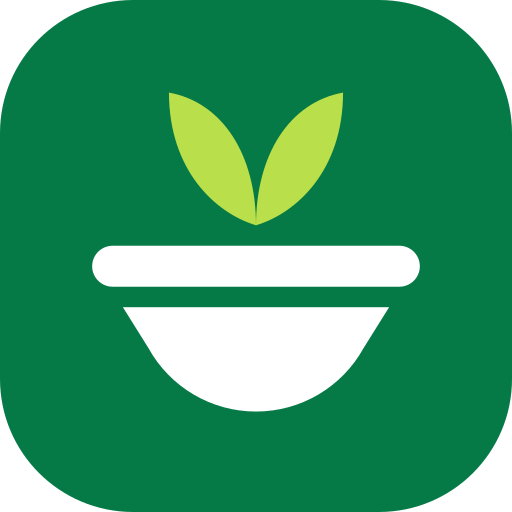
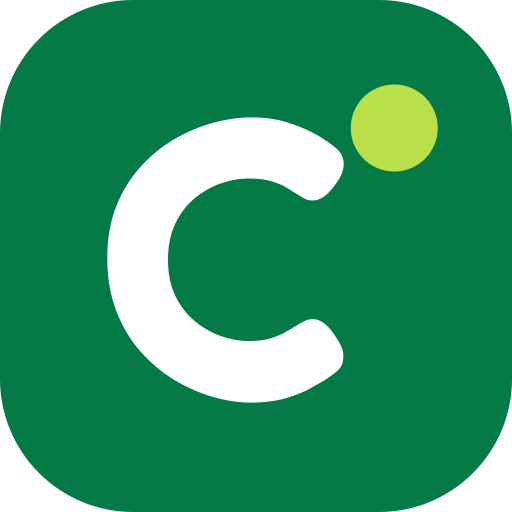
Zurück zum C mit Punkt – als Startbildschirm-Symbol
Das Zeichen bleibt wie es war. Neu sind nur die Symbole, die für den
Startbildschirm fehlten: 180 px randlos und deckend für iOS (es nimmt kein
SVG und rundet die Ecken selbst, deshalb ohne eigene Rundung und ohne
Transparenz), 192 und 512 px fürs Manifest sowie eine randlose Fassung mit
dem Motiv auf 76 % für Android, das in einen Kreis beschneidet.

Claude-Session: https://claude.ai/code/session_01CUeYFDPeowMMSQZz6nK22E

Changed region(s): [[0.1562, 0.1562, 0.875, 0.8125], [0.3125, 0.7188, 0.3438, 0.75]]

diff --git a/src/components/logo-paths.ts b/src/components/logo-paths.ts
@@ -1,8 +1,7 @@
 // Generiert von scripts/make-logo.mjs – nicht von Hand bearbeiten.
 export const MARK_VIEWBOX = '0 0 100 100'
-export const MARK_RIM = { x: 18, y: 48, w: 64, h: 8, r: 4 }
-export const MARK_BOWL = 'M24 60 H76 L71 68 A24 24 0 0 1 29 68 L24 60 Z'
-export const MARK_LEAVES = ["M50 44 C50 30.32 43.54 20.00 33.00 18.08 C33.00 33.20 42.01 41.60 50 44 Z","M50 44 C50 30.32 56.46 20.00 67.00 18.08 C67.00 33.20 57.99 41.60 50 44 Z"]
+export const MARK_C = 'M48.88 78.63Q45.44 78.63 41.62 77.53Q37.80 76.44 34.13 74.26Q30.47 72.07 27.46 68.68Q24.46 65.29 22.71 60.72Q20.95 56.16 20.95 50.31Q20.95 44.70 22.71 40.29Q24.46 35.88 27.43 32.61Q30.39 29.33 34.06 27.18Q37.72 25.04 41.62 23.99Q45.52 22.93 49.03 22.93Q53.01 22.93 55.97 23.87Q58.94 24.81 60.81 25.78Q62.68 26.76 63.15 27.15Q64.55 28.00 65.80 29.10Q67.05 30.19 67.13 31.98Q67.13 32.92 66.78 33.81Q66.43 34.71 65.72 35.73Q64.48 37.52 63.34 38.34Q62.21 39.16 61.04 39.16Q60.11 39.16 59.29 38.69Q58.47 38.22 57.22 37.44Q56.68 37.05 55.66 36.47Q54.65 35.88 52.93 35.37Q51.22 34.87 48.56 34.87Q45.83 34.87 43.06 35.84Q40.30 36.82 37.96 38.77Q35.62 40.72 34.21 43.72Q32.81 46.72 32.81 50.70Q32.81 54.84 34.25 57.80Q35.69 60.76 38.03 62.71Q40.37 64.66 43.14 65.64Q45.91 66.61 48.56 66.61Q50.90 66.61 52.58 66.15Q54.26 65.68 55.47 65.02Q56.68 64.35 57.53 63.81Q58.39 63.26 59.29 62.79Q60.19 62.32 61.12 62.32Q62.21 62.32 63.34 63.18Q64.48 64.04 65.65 65.91Q66.35 66.93 66.74 67.90Q67.13 68.88 67.05 69.81Q67.05 71.45 65.80 72.50Q64.55 73.56 63.15 74.41Q62.53 74.73 60.73 75.78Q58.94 76.83 55.97 77.73Q53.01 78.63 48.88 78.63Z'
+export const MARK_DOT = { cx: 77, cy: 25, r: 8.5 }
 export const WORD_VIEWBOX = '0 0 339 100'
 export const WORD_LETTERS: { d: string; rot: number; cx: number; cy: number }[] = [{"d":"M38.40 81.61Q34.00 81.61 29.10 80.21Q24.20 78.81 19.50 76.01Q14.80 73.21 10.95 68.86Q7.10 64.51 4.85 58.66Q2.60 52.81 2.60 45.31Q2.60 38.11 4.85 32.46Q7.10 26.81 10.90 22.61Q14.70 18.41 19.40 15.66Q24.10 12.91 29.10 11.56Q34.10 10.21 38.60 10.21Q43.70 10.21 47.50 11.41Q51.30 12.61 53.70 13.86Q56.10 15.11 56.70 15.61Q58.50 16.71 60.10 18.11Q61.70 19.51 61.80 21.81Q61.80 23.01 61.35 24.16Q60.90 25.31 60.00 26.61Q58.40 28.91 56.95 29.96Q55.50 31.01 54.00 31.01Q52.80 31.01 51.75 30.41Q50.70 29.81 49.10 28.81Q48.40 28.31 47.10 27.56Q45.80 26.81 43.60 26.16Q41.40 25.51 38.00 25.51Q34.50 25.51 30.95 26.76Q27.40 28.01 24.40 30.51Q21.40 33.01 19.60 36.86Q17.80 40.71 17.80 45.81Q17.80 51.11 19.65 54.91Q21.50 58.71 24.50 61.21Q27.50 63.71 31.05 64.96Q34.60 66.21 38.00 66.21Q41.00 66.21 43.15 65.61Q45.30 65.01 46.85 64.16Q48.40 63.31 49.50 62.61Q50.60 61.91 51.75 61.31Q52.90 60.71 54.10 60.71Q55.50 60.71 56.95 61.81Q58.40 62.91 59.90 65.31Q60.80 66.61 61.30 67.86Q61.80 69.11 61.70 70.31Q61.70 72.41 60.10 73.76Q58.50 75.11 56.70 76.21Q55.90 76.61 53.60 77.96Q51.30 79.31 47.50 80.46Q43.70 81.61 38.40 81.61Z","rot":3.04,"cx":32.15,"cy":79.91},{"d":"M90.90 84.05Q86.20 84.05 81.55 82.20Q76.90 80.35 73.10 76.95Q69.30 73.55 67.10 68.80Q64.90 64.05 64.90 58.25Q64.90 52.85 66.90 48.20Q68.90 43.55 72.50 39.95Q76.10 36.35 80.75 34.30Q85.40 32.25 90.70 32.25Q97.90 32.25 103.75 35.70Q109.60 39.15 113.10 45.05Q116.60 50.95 116.60 58.15Q116.60 64.25 114.35 69.00Q112.10 73.75 108.35 77.15Q104.60 80.55 100.05 82.30Q95.50 84.05 90.90 84.05ZM90.70 68.95Q93.10 68.95 95.60 67.75Q98.10 66.55 99.80 64.15Q101.50 61.75 101.50 58.05Q101.50 54.85 100.10 52.45Q98.70 50.05 96.25 48.70Q93.80 47.35 90.60 47.35Q87.60 47.35 85.25 48.75Q82.90 50.15 81.45 52.60Q80.00 55.05 80.00 58.15Q80.00 61.75 81.65 64.20Q83.30 66.65 85.80 67.80Q88.30 68.95 90.70 68.95Z","rot":1.72,"cx":90.75,"cy":82.35},{"d":"M145.30 85.10Q140.60 85.10 135.95 83.25Q131.30 81.40 127.50 78.00Q123.70 74.60 121.50 69.85Q119.30 65.10 119.30 59.30Q119.30 53.90 121.30 49.25Q123.30 44.60 126.90 41.00Q130.50 37.40 135.15 35.35Q139.80 33.30 145.10 33.30Q152.30 33.30 158.15 36.75Q164.00 40.20 167.50 46.10Q171.00 52.00 171.00 59.20Q171.00 65.30 168.75 70.05Q166.50 74.80 162.75 78.20Q159.00 81.60 154.45 83.35Q149.90 85.10 145.30 85.10ZM145.10 70.00Q147.50 70.00 150.00 68.80Q152.50 67.60 154.20 65.20Q155.90 62.80 155.90 59.10Q155.90 55.90 154.50 53.50Q153.10 51.10 150.65 49.75Q148.20 48.40 145.00 48.40Q142.00 48.40 139.65 49.80Q137.30 51.20 135.85 53.65Q134.40 56.10 134.40 59.20Q134.40 62.80 136.05 65.25Q137.70 67.70 140.20 68.85Q142.70 70.00 145.10 70.00Z","rot":0.5,"cx":145.15,"cy":83.4},{"d":"M217.00 70.63Q220.10 73.33 220.30 75.78Q220.50 78.23 217.60 81.43Q215.40 83.73 213.75 84.43Q212.10 85.13 210.50 84.48Q208.90 83.83 206.80 81.93L191.00 68.13L191.00 76.73Q191.00 78.73 190.65 80.43Q190.30 82.13 188.75 83.18Q187.20 84.23 183.50 84.23Q179.90 84.23 178.30 83.18Q176.70 82.13 176.35 80.38Q176.00 78.63 176.00 76.63L176.00 18.93Q176.00 16.93 176.40 15.23Q176.80 13.53 178.40 12.48Q180.00 11.43 183.60 11.43Q187.20 11.43 188.75 12.48Q190.30 13.53 190.65 15.28Q191.00 17.03 191.00 19.03L191.00 49.23L202.20 38.43Q204.20 36.53 205.95 35.83Q207.70 35.13 209.40 35.73Q211.10 36.33 213.00 38.43Q216.20 41.93 216.10 44.08Q216.00 46.23 213.00 49.23L202.20 59.03Z","rot":-0.66,"cx":196.8,"cy":83.33},{"d":"M231.70 83.59Q228.10 83.59 226.50 82.54Q224.90 81.49 224.55 79.74Q224.20 77.99 224.20 76.09L224.20 41.19Q224.20 39.19 224.60 37.49Q225.00 35.79 226.55 34.74Q228.10 33.69 231.80 33.69Q235.40 33.69 236.95 34.79Q238.50 35.89 238.85 37.59Q239.20 39.29 239.20 41.39L239.20 76.19Q239.20 78.09 238.85 79.84Q238.50 81.59 236.95 82.59Q235.40 83.59 231.70 83.59Z","rot":-1.45,"cx":231.75,"cy":82.69},{"d":"M258.30 82.77Q254.80 82.77 253.20 81.67Q251.60 80.57 251.25 78.82Q250.90 77.07 250.90 75.07L250.90 28.27Q250.90 24.87 252.00 21.57Q253.10 18.27 255.50 15.62Q257.90 12.97 261.60 11.37Q265.30 9.77 270.60 9.77Q272.50 9.77 274.25 10.12Q276.00 10.47 277.05 12.02Q278.10 13.57 278.10 17.27Q278.10 20.97 277.00 22.52Q275.90 24.07 274.15 24.42Q272.40 24.77 270.50 24.77Q269.20 24.77 268.35 24.92Q267.50 25.07 267.00 25.37Q266.50 25.67 266.25 26.37Q266.00 27.07 266.00 28.07L266.00 75.37Q266.00 77.27 265.60 78.97Q265.20 80.67 263.60 81.72Q262.00 82.77 258.30 82.77ZM247.80 33.47L258.80 33.47L272.60 33.07Q274.50 33.07 276.20 33.42Q277.90 33.77 279.00 35.37Q280.10 36.97 280.10 40.67Q280.10 44.07 279.05 45.67Q278.00 47.27 276.30 47.72Q274.60 48.17 272.60 48.17L259.50 47.87L247.40 47.87Q244.50 47.77 243.35 46.12Q242.20 44.47 242.20 40.57Q242.20 36.97 243.60 35.22Q245.00 33.47 247.80 33.47Z","rot":-2.11,"cx":261.15,"cy":81.77},{"d":"M297.20 100.78Q293.10 98.98 292.45 96.78Q291.80 94.58 293.50 90.88L318.60 34.78Q320.30 30.88 322.35 30.13Q324.40 29.38 328.50 30.98Q332.50 32.88 333.15 34.98Q333.80 37.08 332.20 40.58L307.00 97.08Q305.30 100.98 303.30 101.78Q301.30 102.58 297.20 100.78ZM305.90 77.48L282.40 41.68Q280.20 38.38 280.65 36.18Q281.10 33.98 284.60 31.68Q288.50 29.28 290.65 29.83Q292.80 30.38 295.00 33.78L312.30 60.28Z","rot":-3.13,"cx":306.85,"cy":79.68}]
 export const WORD_DOT = { cx: 231.75, cy: 18.69, r: 8.5 }

diff --git a/src/components/Logo.tsx b/src/components/Logo.tsx
@@ -1,18 +1,12 @@
-import { MARK_BOWL, MARK_LEAVES, MARK_RIM, MARK_VIEWBOX, WORD_DOT, WORD_LETTERS, WORD_VIEWBOX } from './logo-paths'
+import { MARK_C, MARK_DOT, MARK_VIEWBOX, WORD_DOT, WORD_LETTERS, WORD_VIEWBOX } from './logo-paths'
 
-/**
- * Bildmarke: grünes Quadrat, weiße Schale, Keimling in Limette.
- *
- * Die Farben stehen fest und folgen nicht der Hell/Dunkel-Umschaltung – ein Zeichen soll
- * überall gleich aussehen, und auf dunklem Grund trägt das Quadrat sich selbst.
- */
+/** Bildmarke: grünes Quadrat, weißes C, Limetten-Punkt. */
 export function LogoMark({ size = 34 }: { size?: number }) {
   return (
     <svg width={size} height={size} viewBox={MARK_VIEWBOX} aria-hidden>
-      <rect width="100" height="100" rx="26" fill="#067a46" />
-      <rect x={MARK_RIM.x} y={MARK_RIM.y} width={MARK_RIM.w} height={MARK_RIM.h} rx={MARK_RIM.r} fill="#ffffff" />
-      <path d={MARK_BOWL} fill="#ffffff" />
-      {MARK_LEAVES.map((d) => <path key={d} d={d} fill="#b9df4a" />)}
+      <rect width="100" height="100" rx="26" fill="var(--green)" />
+      <path d={MARK_C} fill="#ffffff" />
+      <circle cx={MARK_DOT.cx} cy={MARK_DOT.cy} r={MARK_DOT.r} fill="var(--lime)" />
     </svg>
   )
 }
